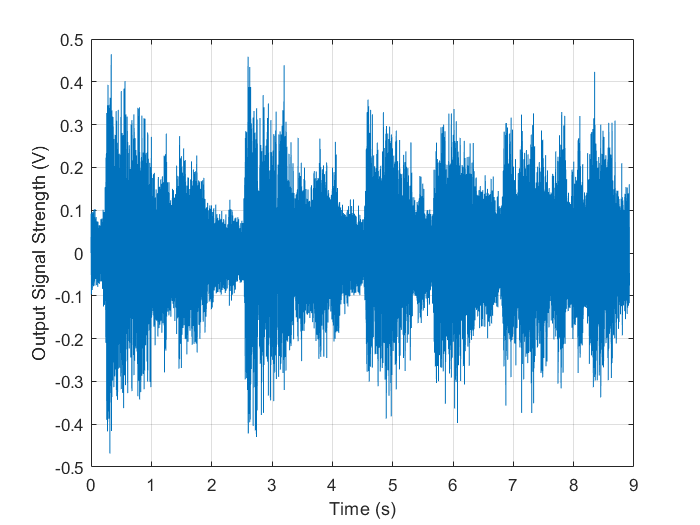
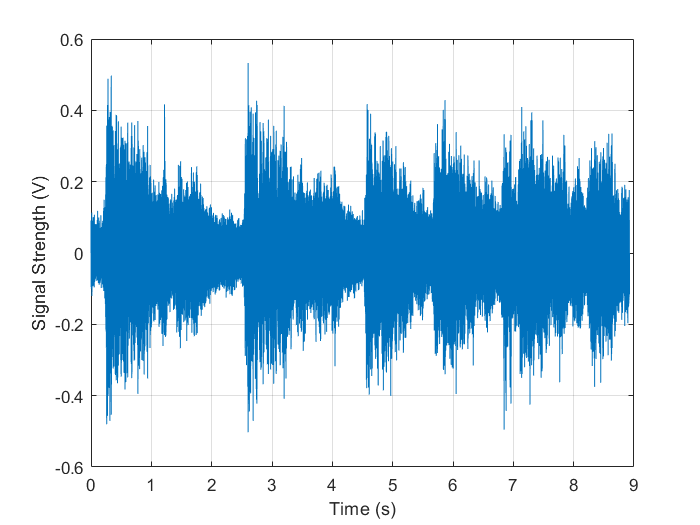
fixed part 2 DEs and updated part 2 plots

diff --git a/Part2.m b/Part2.m
@@ -12,6 +12,9 @@ Fs    = S.Fs;  % 44100
 T     = 1/Fs;
 L     = length(noisy);
 
+tspan  = 0:T:(L - 1) * T;
+dnoisy = gradient(noisy(:)) ./ gradient(tspan(:));
+
 %playSound(noisy, Fs);
 
 % figure 1: noisyhandle soundwaves
@@ -28,7 +31,7 @@ X_s    = Fs/L*(0:L-1);      % setup x-axis
 
 % figure 2: noisyhandel fft
 figure;
-plot(X_s, noisyf);
+plot(X_s(1:L/2), noisyf(1:L/2));
 
 xlabel("Frequency (Hz)");
 ylabel("fft output");
@@ -38,7 +41,7 @@ grid on;
 noisyf_map = [noisyf, X_s.'];                   % each amplitude is assigned to its frequency
 noisyf_map = sortrows(noisyf_map, 'descend');   % key-value pairings preserved
 
-% dominant frequencies from fft are: 60 Hz (likely from electrical grid), 44040 Hz
+% dominant frequencies from fft are: 60 Hz (likely from electrical grid)
 % the above frequencies are 'noisy' so we want to filter them out as much
 % as possible (fft output on these peaks should be far lower after
 % filtering)
@@ -47,15 +50,15 @@ noisyf_map = sortrows(noisyf_map, 'descend');   % key-value pairings preserved
 % define circuit constants and initial conditions
 R2 = 1.6;       % Resistance in Ohms for R2 -> lower impedence on first circuit (R4 = R2 * 10)
 R4 = 16;        % Resistance in Ohms for R4 **CONST**
-C1 = 9.947e-5;  % Capacitance in Farads for C1 -> C1 from cutoff frequency eqn: f_c = 100 Hz (sufficiently above 60 Hz grid)
+C1 = 9.947e-5;  % Capacitance in Farads for C1 -> C1 from cutoff frequency eqn: f_c = 100 Hz (sufficiently above grid freq)
 C3 = 9.947e-6;  % Capacitance in Farads for C3 -> higher impedence on second circuit (C3 = C1 / 10)
 V0 = [0; 0];    % Initial voltages across C1 and C3
 % note: cutoff freq is f_c = 1/(2pi(rc))
 
 % Solve the system of circuit ODEs
 % V(1) = V_1, V(2) = V_C3
-[t1, V] = ode45(@(t, V) cascadedRCODE_A(t, noisy, V, R2, R4, C1, C3, round(t / T) + 1), tspan, V0);
-V_out = V(:,1) - V(:,2);
+[t1, V] = ode45(@(t, V) cascadedRCODE_A(t, dnoisy, V, R2, R4, C1, C3, round(t / T) + 1), tspan, V0);
+V_out = V(:,2);
 
 % fourier analysis on output signal to verify captured frequencies
 V_outf = abs(fft(V_out));
@@ -63,7 +66,7 @@ V_outf = abs(fft(V_out));
 % figure 3: v_out fft
 figure;
 hold on;
-plot(X_s, V_outf);
+plot(X_s(1:L/2), V_outf(1:L/2));
 hold off;
 
 xlabel("Frequency (Hz)");
@@ -78,12 +81,13 @@ xlabel("Time (s)");
 ylabel("Signal Strength (V)");
 grid on;
 
-%playSound(V_out, Fs);
+playSound(V_out, Fs);
 
 %% Band-pass filter (similar config to fig. 4)
 % Define changed circuit elements
 R1 = R2;        % Resistance in Ohms for R1 -> low impedence on first stage (low-pass)
-C2 = 3.094e-5;  % Capacitance in Farads for C2 -> low-pass stage: cutoff freq is 3214.89 Hz*
+C2 = 1.856e-5;  % Capacitance in Farads for C2 -> low-pass stage: cutoff freq is 5358.15 Hz*
+C3 = C1;        % Update C3 value based on C1 since this is now a single stage high-pass
 
 % * from band-pass centre frequency formula: f = sqrt(f_c_high * f_c_low)
 %   high-pass stage cutoff freq is same as before at 100 Hz
@@ -93,7 +97,7 @@ C2 = 3.094e-5;  % Capacitance in Farads for C2 -> low-pass stage: cutoff freq is
 % Solve the system of circuit ODEs
 % V(1) = V_1, V(2) = V_C3
 [t2, V2] = ode45(@(t, V2) cascadedRCODE_B(t, noisy, V2, R1, R4, C2, C3, round(t / T) + 1), tspan, V0);
-V_out2 = V2(:,1) - V2(:,2);
+V_out2 = V2(:,2);
 
 % Fourier analysis on alternate circuit 
 V_out2f = abs(fft(V_out2));
@@ -101,7 +105,7 @@ V_out2f = abs(fft(V_out2));
 % figure 5: v_out2 fft
 figure;
 hold on;
-plot(X_s, V_out2f);
+plot(X_s(1:L/2), V_out2f(1:L/2));
 hold off;
 
 xlabel("Frequency (Hz)");
@@ -116,33 +120,31 @@ xlabel("Time (s)");
 ylabel("Signal Strength (V)");
 grid on;
 
-%playSound(V_out2, Fs);
+playSound(V_out2, Fs);
 
-%% Band-pass filter (similar config to fig. 4) but with 2nd Order High-Pass Input
-% This circuit is equivalent to cascading a 2nd order high-pass filter
-% described in fig. 3 with ther first order band-pass filter described in
-% fig. 4
+%% Band-Pass Filter with High-Pass Filter input
 
-% Our target isolating frequency ranges are the same here so no circuit
-% parameters are changed
-
+% Solve the system of circuit ODEs
+% V(1) = V_1, V(2) = V_C3
 [t3, V3] = ode45(@(t, V3) cascadedRCODE_B(t, V_out, V2, R1, R4, C2, C3, round(t / T) + 1), tspan, V0);
-V_out3 = V3(:,1) - V3(:,2);
+V_out3 = V3(:,2);
 
-% Fourier analysis   
+% Fourier analysis on alternate circuit 
 V_out3f = abs(fft(V_out3));
 
-% figure 7: v_out3 fft
+% figure 5: v_out2 fft
 figure;
 hold on;
-plot(X_s, V_out3f);
+plot(X_s(1:L/2), V_out3f(1:L/2));
 hold off;
 
 xlabel("Frequency (Hz)");
 ylabel("fft output")
 grid on;
 
-% figure 8: v_out3
+ylim([0, 3e4])
+
+% figure 6: v_out2
 figure;
 plot(t3, V_out3);
 
@@ -150,43 +152,39 @@ xlabel("Time (s)");
 ylabel("Signal Strength (V)");
 grid on;
 
-%playSound(V_out3, Fs);
-
+playSound(V_out3, Fs);
 
 %% Results:
-% Though the band-pass circuit is theoretically more versatile in that there
-% is an upper and lower cutoff frequency, the single order setup in this case 
-% likely does a worse job at filtering out unwanted frequencies. Furthermore, 
-% while both circuits do a good job at filtering out the 60 Hz hum, the 
-% high-pass circuit actually does a better job at filtering out the high 
-% frequency hissing. This could suggest that the hiss is made up of a 
-% significant amount of lower frequency elements not covered by the low-pass
-% portion of the band-pass filter, thus diminishing the usefulness of the 
-% band-pass filter's extra functionality. That being said, though the
-% hissing sound is more intense in the band-pass filter, the sound of the
-% actual music also has much more clarity possibly owing to the band-pass
-% filter removing excess upper frequency noise.
-% 
-% Finally, we also experimented on running the 2nd order high-pass circuit's 
-% output through the first order band-pass circuit. Though this method seems to
-% have gotten rid of the hissing present in the other two circuit's
-% outputs, the signal making up the music is also heavily diminished and is
-% quite hard to make out as its signal is now quite close in strength to
-% the reduced hum. Furthermore, this 'cascaded' circuit seems to introduce
-% a high pitched noise in lieu of the hissing as well so the audio signal
-% outputted here is of lower quality by most metrics compared to the 2nd
-% order high-pass circuit by itself.
+% The high-pass filter does a much better job at filtering out the 60 Hz
+% hum from the electrical grid than the band-pass filter. This can be
+% clearly seen by comparing the two fft plots for the two filters, with a
+% noticeable spike at 60 Hz still appearing in the band-pass filter output
+% fft but no noticeable spike on the high-pass filter fft. This is likely
+% because the second-order nature of the high-pass filter is able to much
+% more effectively remove the 60 Hz sound waves compared to the band-pass
+% filter's high-pass stage, which is only a first-order circuit. However,
+% the band-pass filter does a much better job at removing higher frequency
+% hissing as well as it has a lower and upper cutoff frequency as opposed
+% to the high-pass filter's single lower cutoff. This also means that the
+% clarity of the music is better preserved in the band-pass filter.
+%
+% By passing the output of the high-pass filter through the band-pass
+% filter, we do actually get a signal that has the hum mostly filtered out
+% and music with a comparatively high degree of clarity. However, this
+% output signal is far more quiet compared to either of the previous filter
+% outputs and also has a very noticeable 'crackling' noise is the
+% background.
 
 %% DEs:
-function dVdt = cascadedRCODE_A(~, Vin, V, R2, R4, C1, C3, counter)
-    dV1dt = (Vin(counter) - V(1)) / (R2 * C1);
-    dV3dt = (V(1) - V(2)) / (R4 * C3);
+function dVdt = cascadedRCODE_A(~, dVin, V, R2, R4, C1, C3, counter)
+    dV1dt = ((R2 * C1 * dVin(counter)) - V(1))/(R2 * C1);
+    dV3dt = ((R4 * C3 * dV1dt) - V(2))/(R4 * C3);
     dVdt  = [dV1dt; dV3dt];                     % return derivatives as a column vector
 end
 
 function dVdt = cascadedRCODE_B(~, Vin, V, R1, R4, C2, C3, counter)
-    dV1dt = (Vin(counter) - V(1) / (R1 * C2));
-    dV3dt = (V(1) - V(2)) / (R4 * C3);
+    dV1dt = ((Vin(counter) - V(1)))/(R1 * C2);
+    dV3dt = ((R4 * C3 * dV1dt) - V(2))/(R4 * C3);
     dVdt  = [dV1dt; dV3dt];
 end
 
